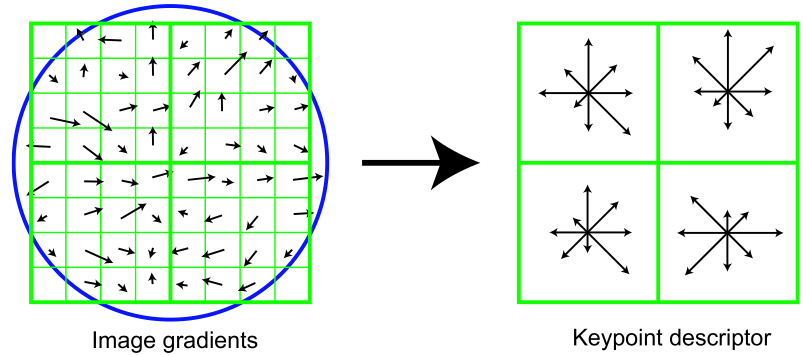
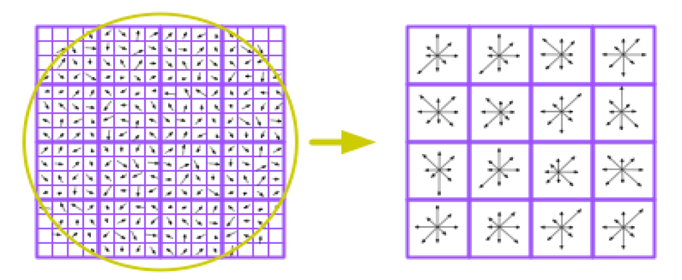
edit_2

diff --git a/lab2/README.md b/lab2/README.md
@@ -105,8 +105,12 @@ SFIT - Scale-invariant feature transform
 
 ![sift](images_README/sift.png)
 
+Также представлен сжатый пример всего процесса построения дескриптора точки:
 
-# 2.2 Визуализация сопоставления дескрипторов
+![example_desk](images_README/example_desk.png)
+
+
+# 2.1 Визуализация сопоставления дескрипторов
 
 Далее приведена визуализация результата работы алгоритма:
 
